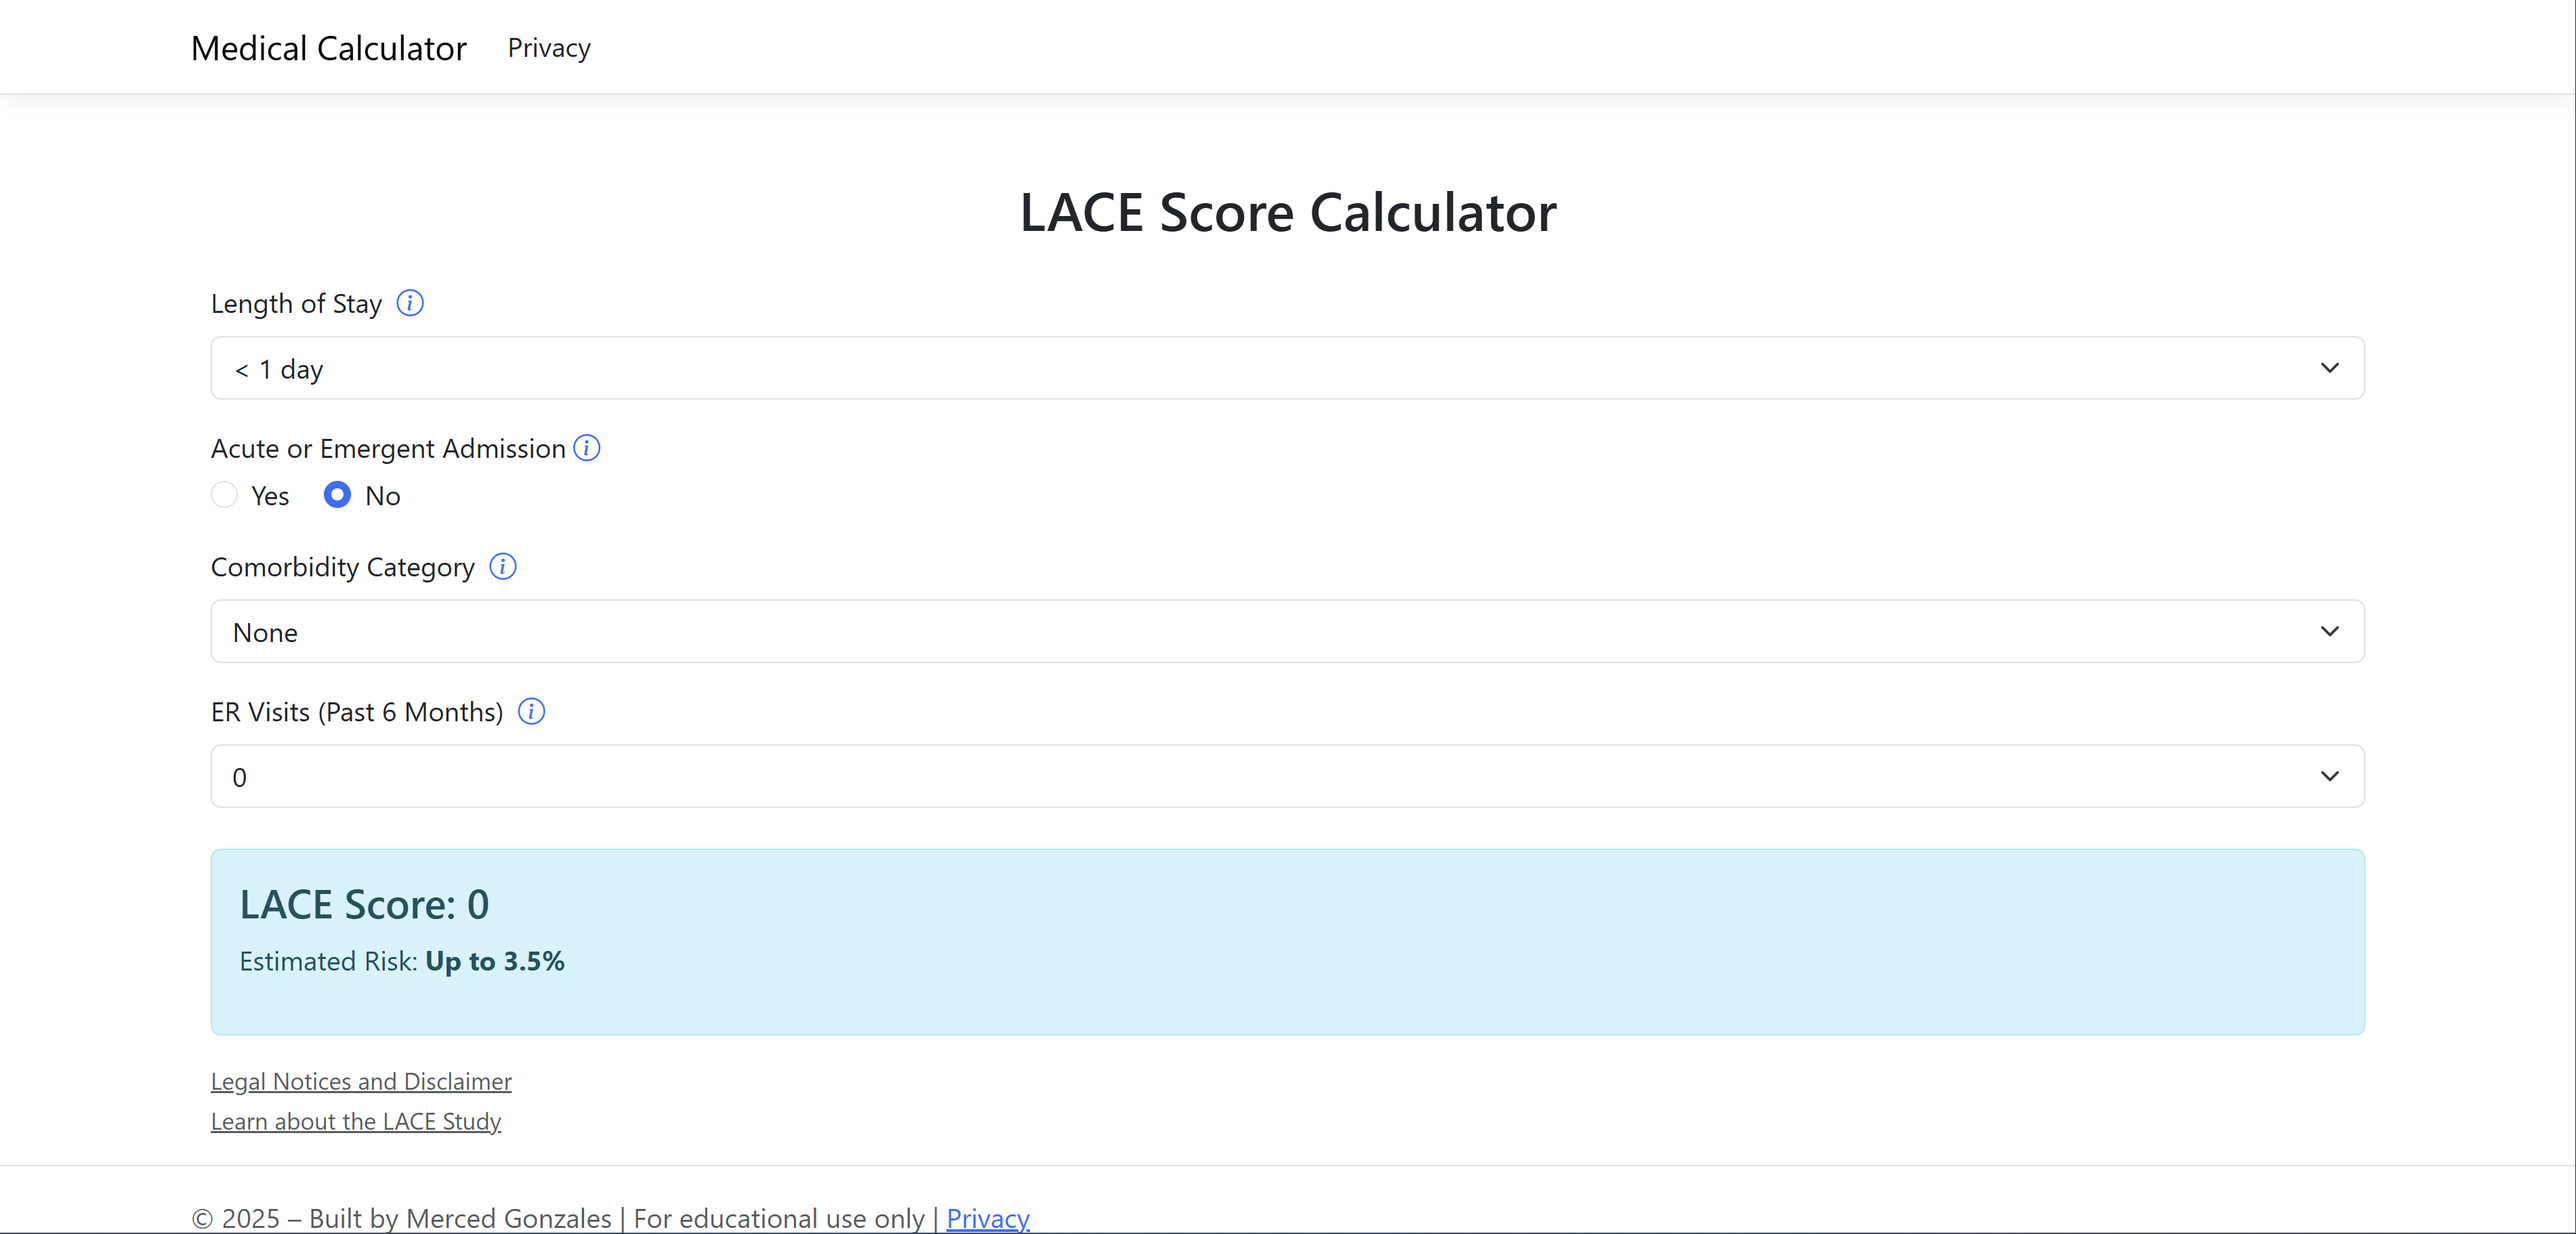
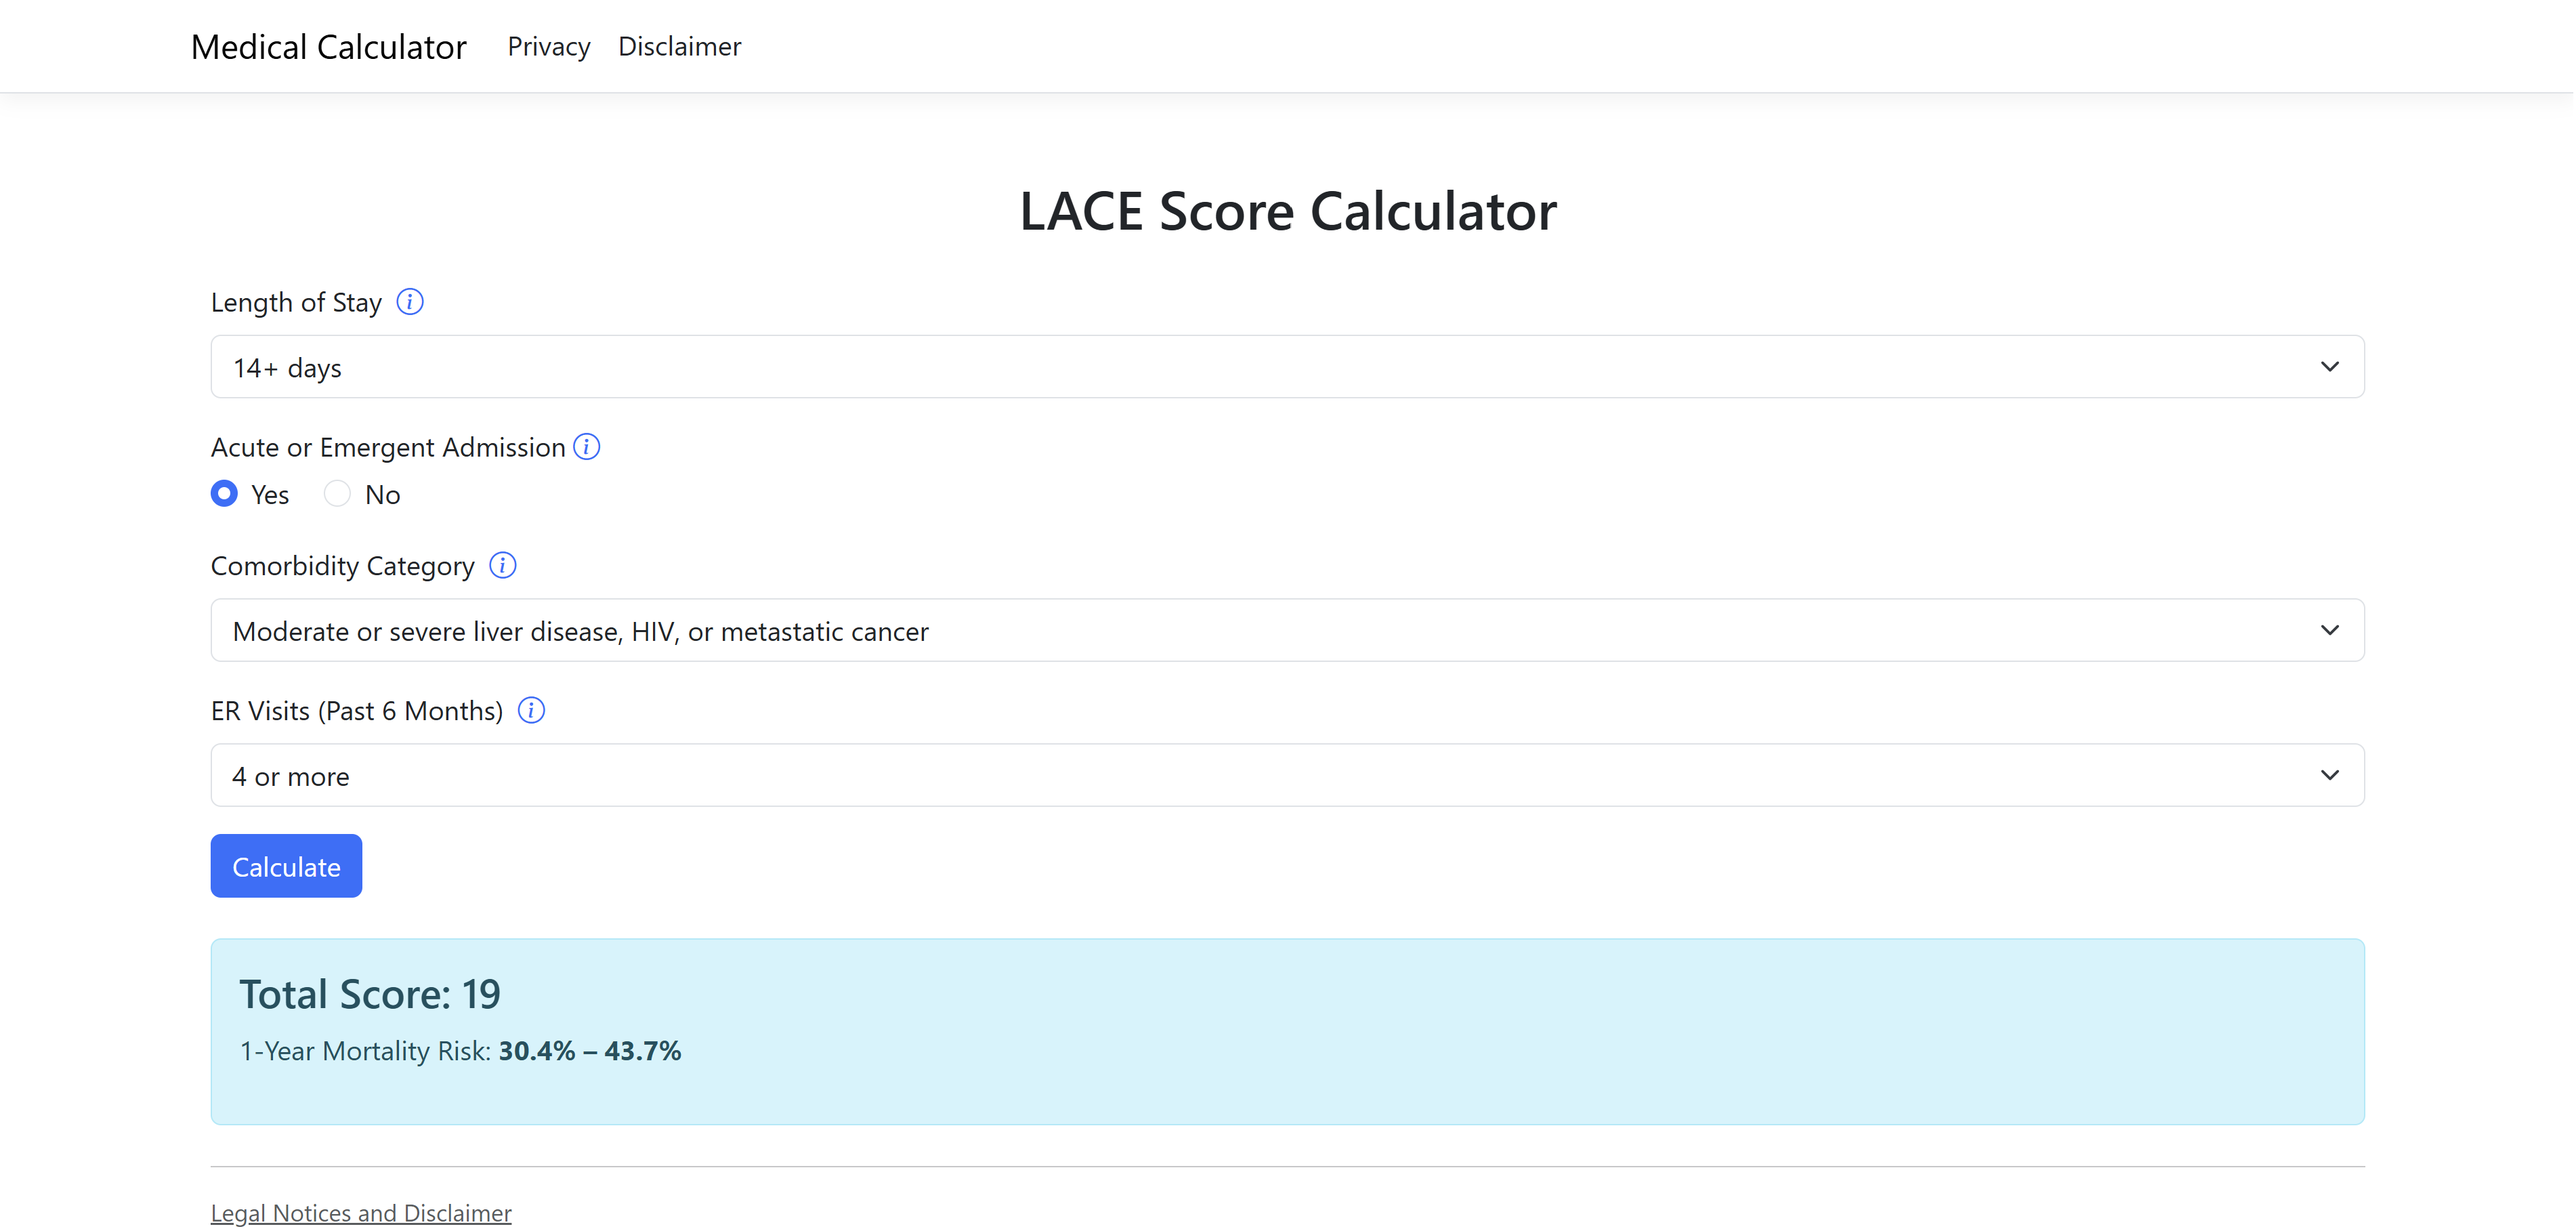
Phase 2.6 – LACE Calculator: Triggered Calculation & Validation Upgrade
- Changed LACE calculator from live scoring to backend-triggered calculation via "Calculate" button
- Added empty default placeholders to all dropdowns and radio buttons for cleaner initial state
- Implemented server-side validation with red outlines and custom inline error messages for required fields
- Updated Index.cshtml.cs to use nullable properties with [Display] and [Required] attributes
- Removed unused live LACE event listeners from site.js, retaining only modal handling logic
- Updated docs/laceCalcPage.png with new UI showing validation and placeholders

diff --git a/LSC.WebApp/wwwroot/js/site.js b/LSC.WebApp/wwwroot/js/site.js
@@ -14,36 +14,8 @@ if (infoModal) {
   });
 }
 
-function updateLaceScore() {
-    const length = parseInt(document.getElementById("LengthOfStay").value);
-    const acute = document.querySelector('input[name="AcuteAdmission"]:checked')?.value === "true";
-    const comorb = parseInt(document.getElementById("ComorbidityScore").value);
-    const er = parseInt(document.getElementById("ERVisits").value);
-
-    const total = length + (acute ? 3 : 0) + comorb + er;
-    let risk = "Unknown";
-
-    if (total <= 3) risk = "Up to 3.5%";
-    else if (total <= 7) risk = "4.3% – 7.3%";
-    else if (total <= 11) risk = "8.7% – 14.4%";
-    else if (total <= 15) risk = "17% – 26.6%";
-    else if (total <= 19) risk = "30.4% – 43.7%";
-
-    document.getElementById("scoreOutput").innerHTML =
-        `<h4>LACE Score: ${total}</h4><p>Estimated Risk: <strong>${risk}</strong></p>`;
-
-    document.getElementById("scoreOutput").style.display = "block";
-}
-
 window.addEventListener('DOMContentLoaded', () => {
     const path = window.location.pathname;
-
-    if (path.includes("/LACE")) {
-        document.querySelectorAll('select, input[type="radio"]').forEach(input => {
-            input.addEventListener('change', updateLaceScore);
-        });
-        updateLaceScore();
-    }
 
     // --- APACHE bindings: small safety net ---
     if (path.includes("/APACHE")) {

diff --git a/LSC.WebApp/Pages/LACE/Index.cshtml.cs b/LSC.WebApp/Pages/LACE/Index.cshtml.cs
@@ -1,55 +1,68 @@
+using System.ComponentModel.DataAnnotations;
 using Microsoft.AspNetCore.Mvc;
 using Microsoft.AspNetCore.Mvc.RazorPages;
 
-namespace LSC.WebApp.Pages.LACE;
-
-public class IndexModel : PageModel
+namespace LSC.WebApp.Pages.LACE
 {
-    private readonly ILogger<IndexModel> _logger;
-
-    public IndexModel(ILogger<IndexModel> logger)
+    public class IndexModel : PageModel
     {
-        _logger = logger;
-    }
+        private readonly ILogger<IndexModel> _logger;
 
-    // ========== Form Inputs ==========
-    [BindProperty]
-    public int LengthOfStay { get; set; }
+        public IndexModel(ILogger<IndexModel> logger) => _logger = logger;
 
-    [BindProperty]
-    public bool AcuteAdmission { get; set; }
+        // ===== Form Inputs (nullable so placeholders show) =====
+        [BindProperty]
+        [Display(Name = "Length of Stay")]
+        [Required(ErrorMessage = "Please select the patient's length of stay.")]
+        public int? LengthOfStay { get; set; }
 
-    [BindProperty]
-    public int ComorbidityScore { get; set; }
+        [BindProperty]
+        [Display(Name = "Acute or Emergent Admission")]
+        [Required(ErrorMessage = "Please indicate whether the admission was acute or emergent.")]
+        public bool? AcuteAdmission { get; set; }
 
-    [BindProperty]
-    public int ERVisits { get; set; }
+        [BindProperty]
+        [Display(Name = "Comorbidity Category")]
+        [Required(ErrorMessage = "Please select the patient's comorbidity category.")]
+        public int? ComorbidityScore { get; set; }
 
-    // ========== Output ==========
-    public int TotalScore { get; set; } = -1;
+        [BindProperty]
+        [Display(Name = "ER Visits (Past 6 Months)")]
+        [Required(ErrorMessage = "Please choose the number of ER visits in the past 6 months.")]
+        public int? ERVisits { get; set; }
 
-    public string RiskCategory { get; set; } = "";
+        // ========== Output ==========
+        public int TotalScore { get; set; } = -1;
+        public string RiskCategory { get; set; } = "";
 
-    public void OnGet()
-    {
-        
-    }
+        public void OnGet() { }
 
-    public void OnPost()
-    {
-        TotalScore = LengthOfStay
-                   + (AcuteAdmission ? 3 : 0)
-                   + ComorbidityScore
-                   + ERVisits;
-
-        RiskCategory = TotalScore switch
+        public void OnPost()
         {
-            <= 3 => "Up to 3.5%",
-            <= 7 => "4.3% – 7.3%",
-            <= 11 => "8.7% – 14.4%",
-            <= 15 => "17% – 26.6%",
-            <= 19 => "30.4% – 43.7%",
-            _ => "Unknown"
-        };
+            if (!ModelState.IsValid)
+            {
+                TotalScore = -1;
+                RiskCategory = "";
+                return;
+            }
+
+            var total =
+                    LengthOfStay!.Value
+                    + (AcuteAdmission == true ? 3 : 0)
+                    + ComorbidityScore!.Value
+                    + ERVisits!.Value;
+
+            TotalScore = total;
+
+            RiskCategory = total switch
+            {
+                <= 3 => "Up to 3.5%",
+                <= 7 => "4.3% – 7.3%",
+                <= 11 => "8.7% – 14.4%",
+                <= 15 => "17% – 26.6%",
+                <= 19 => "30.4% – 43.7%",
+                _ => "Unknown"
+            };
+        }
     }
 }
